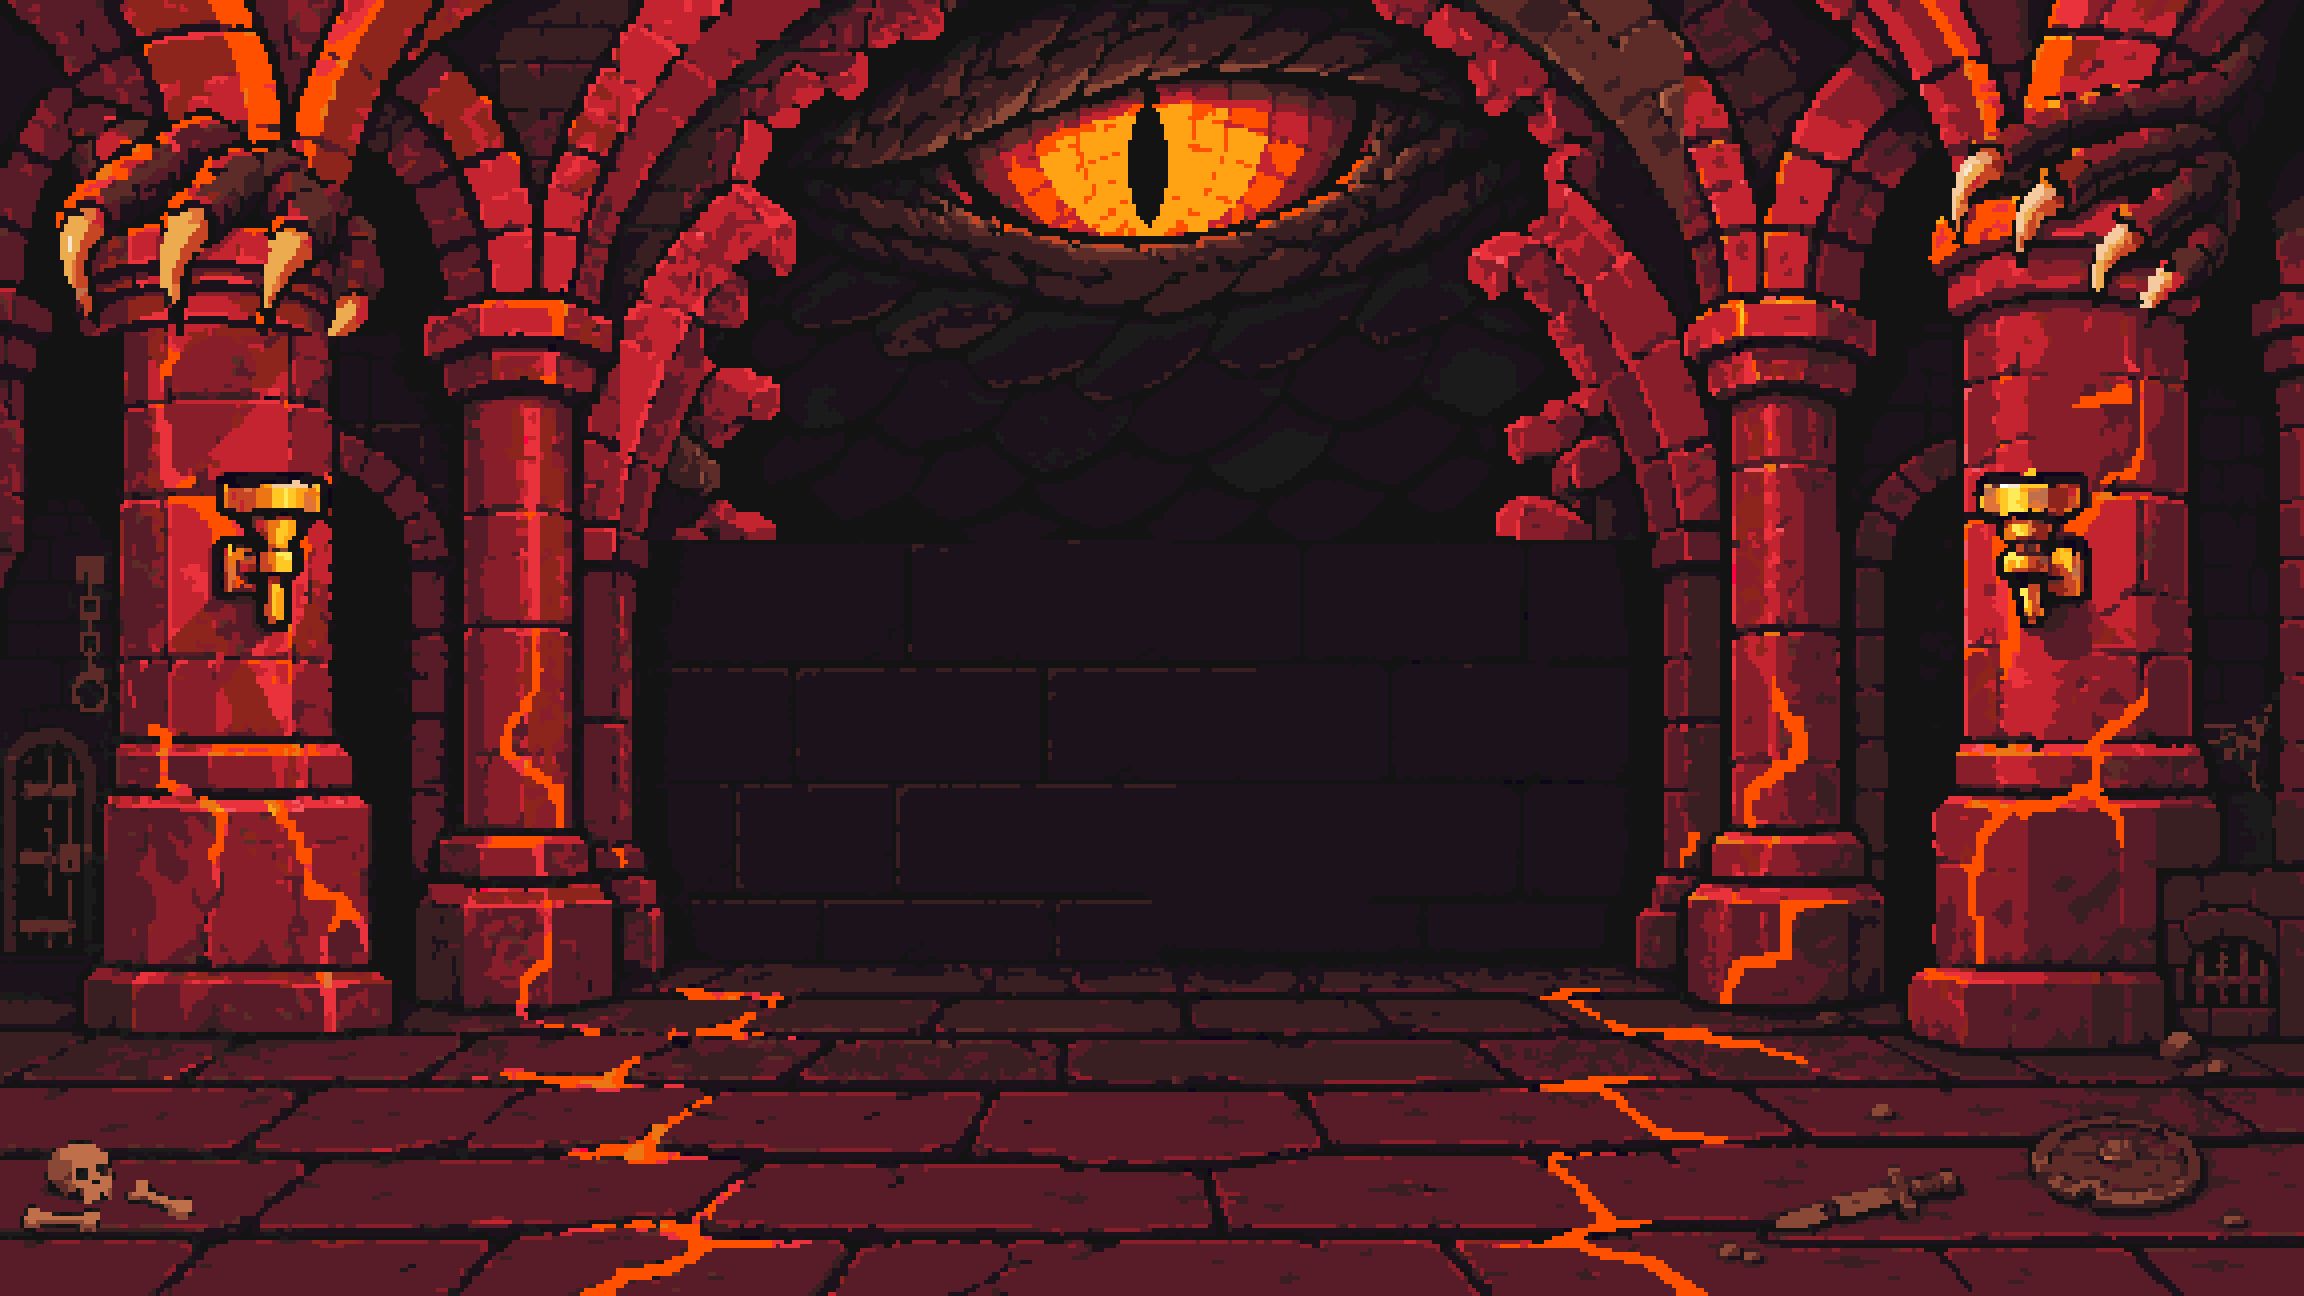
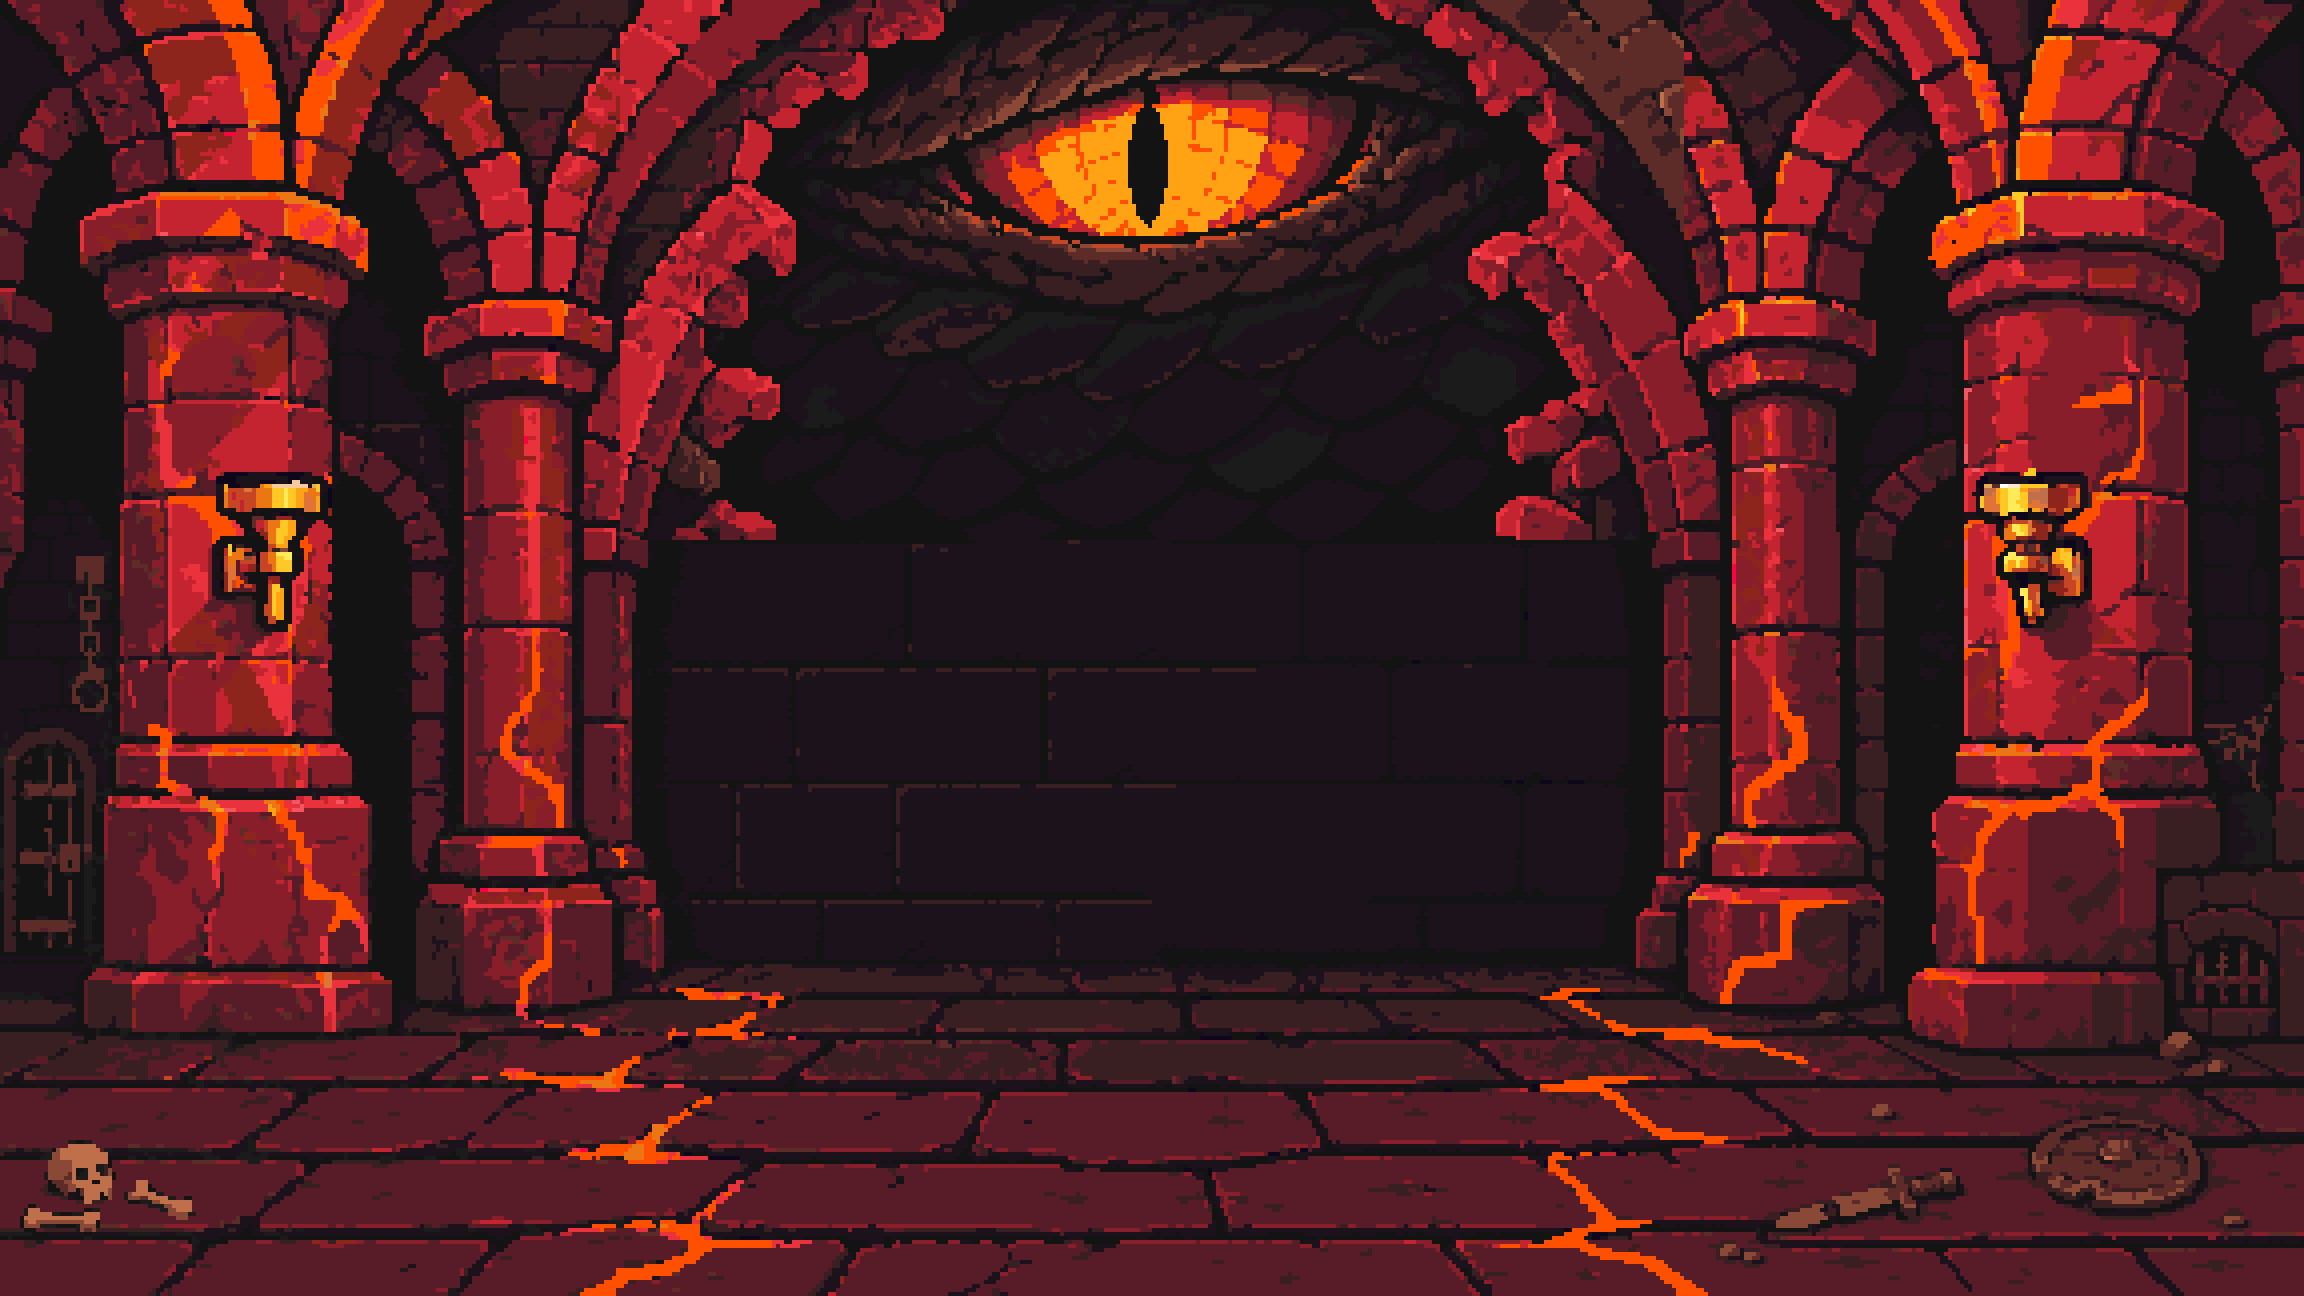
Pratala backgrounds: remove the dragon claws, add the back wall to base portrait
The claws did not line up with the eye, so only the eye remains behind
the broken wall. Base portrait had a flat dark opening under the eye;
it now has block courses like the other three backgrounds.

Changed region(s): [[0.0, 0.0617, 0.1875, 0.2778], [0.8438, 0.0, 1.0, 0.2469]]

diff --git a/apps/pratala/src/game/dragonEye.ts b/apps/pratala/src/game/dragonEye.ts
@@ -1,5 +1,5 @@
-// The dragon is too large to be seen whole: one eye behind the broken back wall, and its claws on
-// the pillars, painted into the backgrounds (static/assets/backgrounds). The eye is painted there
+// The dragon is too large to be seen whole: only one eye shows, behind the broken back wall,
+// painted into the backgrounds (static/assets/backgrounds). The eye is painted there
 // open; the game draws its other frames over it from a strip (static/assets/eye), in the
 // background's own art pixels.
 export const EYE_FRAMES = [
